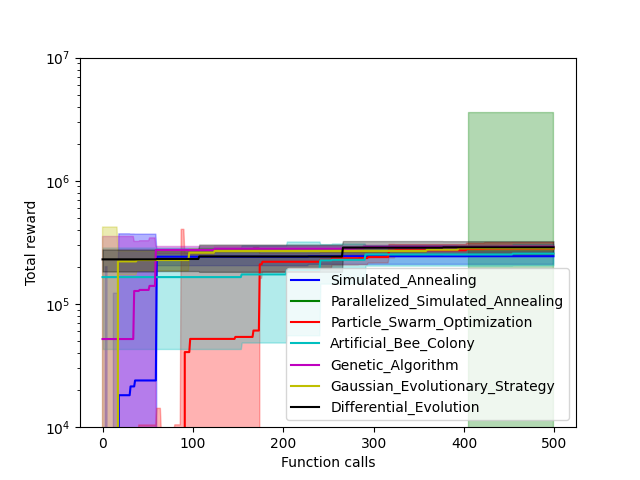
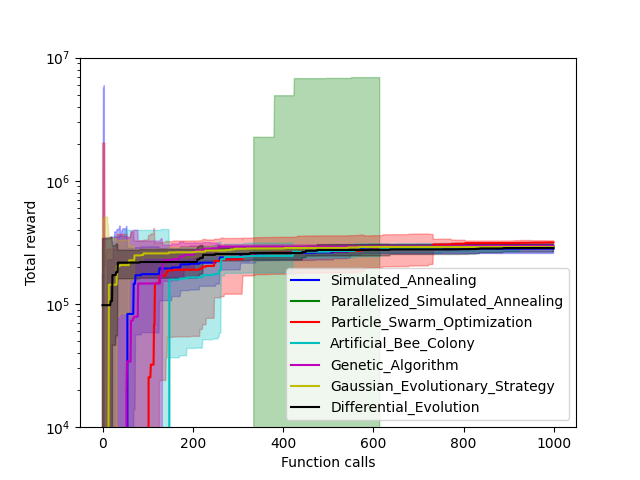
reduced neural net size

Changed region(s): [[0.1562, 0.1562, 0.875, 0.9375], [0.6875, 0.875, 0.9062, 0.9375]]

diff --git a/algorithms/sa.py b/algorithms/sa.py
@@ -2,8 +2,6 @@
 Simulated annealing for neural net optimization
 """
 import copy
-from operator import index
-import time
 import torch
 import warnings
 import multiprocessing
@@ -12,6 +10,7 @@ from functools import partial
 
 from algorithms.optim import OptimClass
 from helper_functions.timer import timeit
+from helper_functions.trajectory import J_supply_chain_ssa
 
 class Simulated_Annealing(OptimClass):
 
@@ -278,6 +277,7 @@ class Parallelized_Simulated_Annealing(OptimClass):
         """
         # identify best solution
         if self.current_reward[i] > self.best_value[i]:
+            print(self.current_reward)
             self.best_parameters[i]    = copy.deepcopy(self.parameters[i])
             self.best_value[i]         = self.current_reward[i]
         else:
@@ -326,10 +326,10 @@ class Parallelized_Simulated_Annealing(OptimClass):
         - SC_run_params =   J_supply_chain run parameters
         - iter_debug    =   if true, prints ever 100 iterations
         """
-        function = [function for _ in range(self.population)]
+        functions = [self.env[i].J_supply_chain for i in range(self.population)]
 
         # initialize solutions
-        self._initialize(function, SC_run_params)
+        self._initialize(functions, SC_run_params)
         
         # start algorithm for multiple population
         with multiprocessing.Manager() as manager:
@@ -337,11 +337,12 @@ class Parallelized_Simulated_Annealing(OptimClass):
             # share list between all workers
             self.best_value = manager.list(self.best_value)
             self.best_parameters = manager.list(self.best_parameters)
+            self.current_reward = manager.list(self.current_reward)
             
             # limit number of workers to 5 at a time
             pool = multiprocessing.Pool(5)
             best_rewards_list = list(pool.map(partial(self._run_parallel, \
-                                    function=function, SC_run_params=SC_run_params, \
+                                    function=functions, SC_run_params=SC_run_params, \
                                     rew_list=self.best_value, param_list=self.best_parameters, \
                                     iter_debug=iter_debug),
                                 range(self.population)))
@@ -407,13 +408,13 @@ class Parallelized_Simulated_Annealing(OptimClass):
         - func_call_max =   maximum number of function calls (default: 10000)
         - iter_debug    =   if true, prints ever 1000 function calls
         """
-        function = [function for _ in range(self.population)]
+        functions = [self.env[i].J_supply_chain for i in range(self.population)]
 
         # reinitialize exponential decay
         self.eps = 1 - (self.Tf0/self.Ti0)**(func_call_max**(-1))
 
         # initialize solutions
-        self._initialize(function, SC_run_params)
+        self._initialize(functions, SC_run_params)
 
         # start algorithm for multiple population
         with multiprocessing.Manager() as manager:
@@ -421,13 +422,14 @@ class Parallelized_Simulated_Annealing(OptimClass):
             # share list between all workers
             self.best_value         = manager.list(self.best_value)
             self.best_parameters    = manager.list(self.best_parameters)
+            self.current_reward     = manager.list(self.current_reward)
             self.func_call_reward   = manager.list(self.func_call_reward)
             self.func_call          = manager.list([0 for _ in range(self.population)])
 
             # limit number of workers to 5 at a time
             pool = multiprocessing.Pool(5)
             _ = list(pool.map(partial(self._run_parallel_func,
-                                        function=function, SC_run_params=SC_run_params,
+                                        function=functions, SC_run_params=SC_run_params,
                                         func_call=self.func_call, func_call_max=func_call_max,
                                         rew_list=self.best_value, param_list=self.best_parameters, 
                                         iter_debug=iter_debug),
@@ -630,7 +632,7 @@ class Parallelized_Simulated_Annealing_with_Differential_Evolution(OptimClass):
         - SC_run_params =   J_supply_chain run parameters
         - iter_debug    =   if true, prints ever 100 iterations
         """
-        function = [function for _ in range(self.population)]
+        function = [c for _ in range(self.population)]
 
         # initialize solutions
         self._initialize(function, SC_run_params)

diff --git a/main_evaluate.py b/main_evaluate.py
@@ -50,7 +50,7 @@ def evaluate(**kwargs):
     SC_run_params_['demand_lb']  = 12
     SC_run_params_['demand_ub']  = 15
     SC_run_params_['start_inv']  = 10
-    SC_run_params_['demand_f']   = [seasonal_random_uniform_control_si(12, 15, i) for i in range(SC_run_params_['steps_tot'])]
+    SC_run_params_['demand_f']   = random_uniform_demand_si
     SC_run_params_['u_norm']     = u_norm_
     SC_run_params_['x_norm']     = x_norm_
     SC_run_params_['hyparams']   = hyparams_
@@ -99,10 +99,11 @@ def evaluate(**kwargs):
     backlog = 0
     # main loop
     for step_k in range(steps_tot):
-        d_k_                           = seasonal_random_uniform_control_si(demand_lb, demand_ub, step_k+1)
+        df_params                      = [demand_ub, demand_lb, step_k+1]  # set demand function paramters
+        d_k_                           = random_uniform_demand_si(*df_params)
         demand_history[step_k]         = d_k_
         d_k                            = d_k_ + backlog
-        sale_product, r_k, backlog     = SC_model.advance_supply_chain_orders_DE(order_k, d_k)
+        sale_product, r_k, backlog     = SC_model.advance_supply_chain_orders(order_k, d_k)
         reward_history[step_k]         = r_k
         backlog_history[step_k]        = backlog
         demand_backlog_history[step_k] = d_k
@@ -161,6 +162,6 @@ if __name__=="__main__":
     keywords = {}
     keywords['io']       = 'siso'
     keywords['echelons'] = 2
-    keywords['path']     = 'neural_nets/parameters/test/de.pth'
+    keywords['path']     = 'neural_nets/parameters/test/psa.pth'
 
     evaluate(**keywords)

diff --git a/main_func_test.py b/main_func_test.py
@@ -68,7 +68,7 @@ def test_run(args):
     SC_run_params_['demand_lb']  = 12
     SC_run_params_['demand_ub']  = 15
     SC_run_params_['start_inv']  = 10
-    SC_run_params_['demand_f']   = seasonal_random_uniform_control_si(12, 15, 365)
+    SC_run_params_['demand_f']   = random_uniform_demand_si
     SC_run_params_['u_norm']     = u_norm_
     SC_run_params_['x_norm']     = x_norm_
     SC_run_params_['hyparams']   = hyparams_
@@ -140,7 +140,7 @@ def test_run(args):
     for arg in args:
         best_policy, best_reward, R_list = algo_dict[arg].func_algorithm(function=J_supply_chain_ssa, 
                                                                             SC_run_params=SC_run_params_, 
-                                                                            func_call_max=5000, 
+                                                                            func_call_max=1000, 
                                                                             iter_debug=True
                                                                         )
 
@@ -167,6 +167,6 @@ if __name__=="__main__":
     - 'cma'         covariance matrix adaptation evolutionary strategy
     - 'de'          differential evolution
     """
-    keynames = ['sa']
+    keynames = ['psa']
     
     test_run(keynames)

diff --git a/neural_nets/model_ssa.py b/neural_nets/model_ssa.py
@@ -17,11 +17,11 @@ class Net(nn.Module):
     # defining ANN topology 
     self.input_size = self.args['input_size']
     self.output_sz  = self.args['output_size']
-    self.hs1        = self.input_size*10                      # !! parameters change manually
-    self.hs2        = 5 * self.input_size + 2 *self.output_sz # !! parameters change manually
-    self.hs3        = self.output_sz*20                       # !! parameters change manually
-    self.hs4        = self.output_sz**2                       # !! parameters change manually
-    self.hs5        = self.output_sz // 2 * self.input_size   # !! parameters change manually
+    self.hs1        = self.input_size*2                     # !! parameters change manually
+    self.hs2        = self.input_size + self.output_sz      # !! parameters change manually
+    self.hs3        = self.output_sz*2                      # !! parameters change manually
+    self.hs4        = self.output_sz**2                     # !! parameters change manually
+    self.hs5        = self.output_sz // 2 * self.input_size # !! parameters change manually
 
     # defining layer 
     self.hidden1 = nn.Linear(self.input_size, self.hs1)

diff --git a/environment.py b/environment.py
@@ -2,7 +2,9 @@ import copy
 import numpy as np
 import torch
 
-class Multi_echelon_SupplyChain():
+from helper_functions.baseclass import BaseEnv
+
+class Multi_echelon_SupplyChain(BaseEnv):
 
     def __init__(self, n_echelons, SC_params, connectivity_M='none', reward_f='none'):
         """
@@ -141,9 +143,9 @@ class Multi_echelon_SupplyChain():
         self.warehouses   = self.SC_inventory[:,0]
 
     def J_supply_chain(self, model, SC_run_params, policy):
-        '''
+        """
         Original version for stochastic search algorithms with slight modifications
-        '''
+        """
         steps_tot  = SC_run_params['steps_tot']
         u_norm     = SC_run_params['u_norm']   
         _          = SC_run_params['control_lb']

diff --git a/helper_functions/trajectory.py b/helper_functions/trajectory.py
@@ -82,7 +82,8 @@ def J_supply_chain_ssa(model, SC_run_params, policy):
 
     # === SC run === #
     for step_k in range(steps_tot):
-        d_k_                           = random_uniform_demand_si(demand_lb, demand_ub)
+        df_params                      = [demand_ub, demand_lb, step_k+1]  # set demand function paramters
+        d_k_                           = demand_f(*df_params)
         d_k                            = d_k_ + backlog
         sale_product, r_k, backlog     = model.advance_supply_chain_orders(order_k, d_k)
         r_tot                         += r_k

diff --git a/helper_functions/baseclass.py b/helper_functions/baseclass.py
@@ -1,0 +1,10 @@
+"""
+Abstract class for environment
+"""
+from abc import ABC, abstractmethod
+
+class BaseEnv(ABC):
+
+    @abstractmethod
+    def J_supply_chain(self, model, SC_run_params, policy):
+        pass
